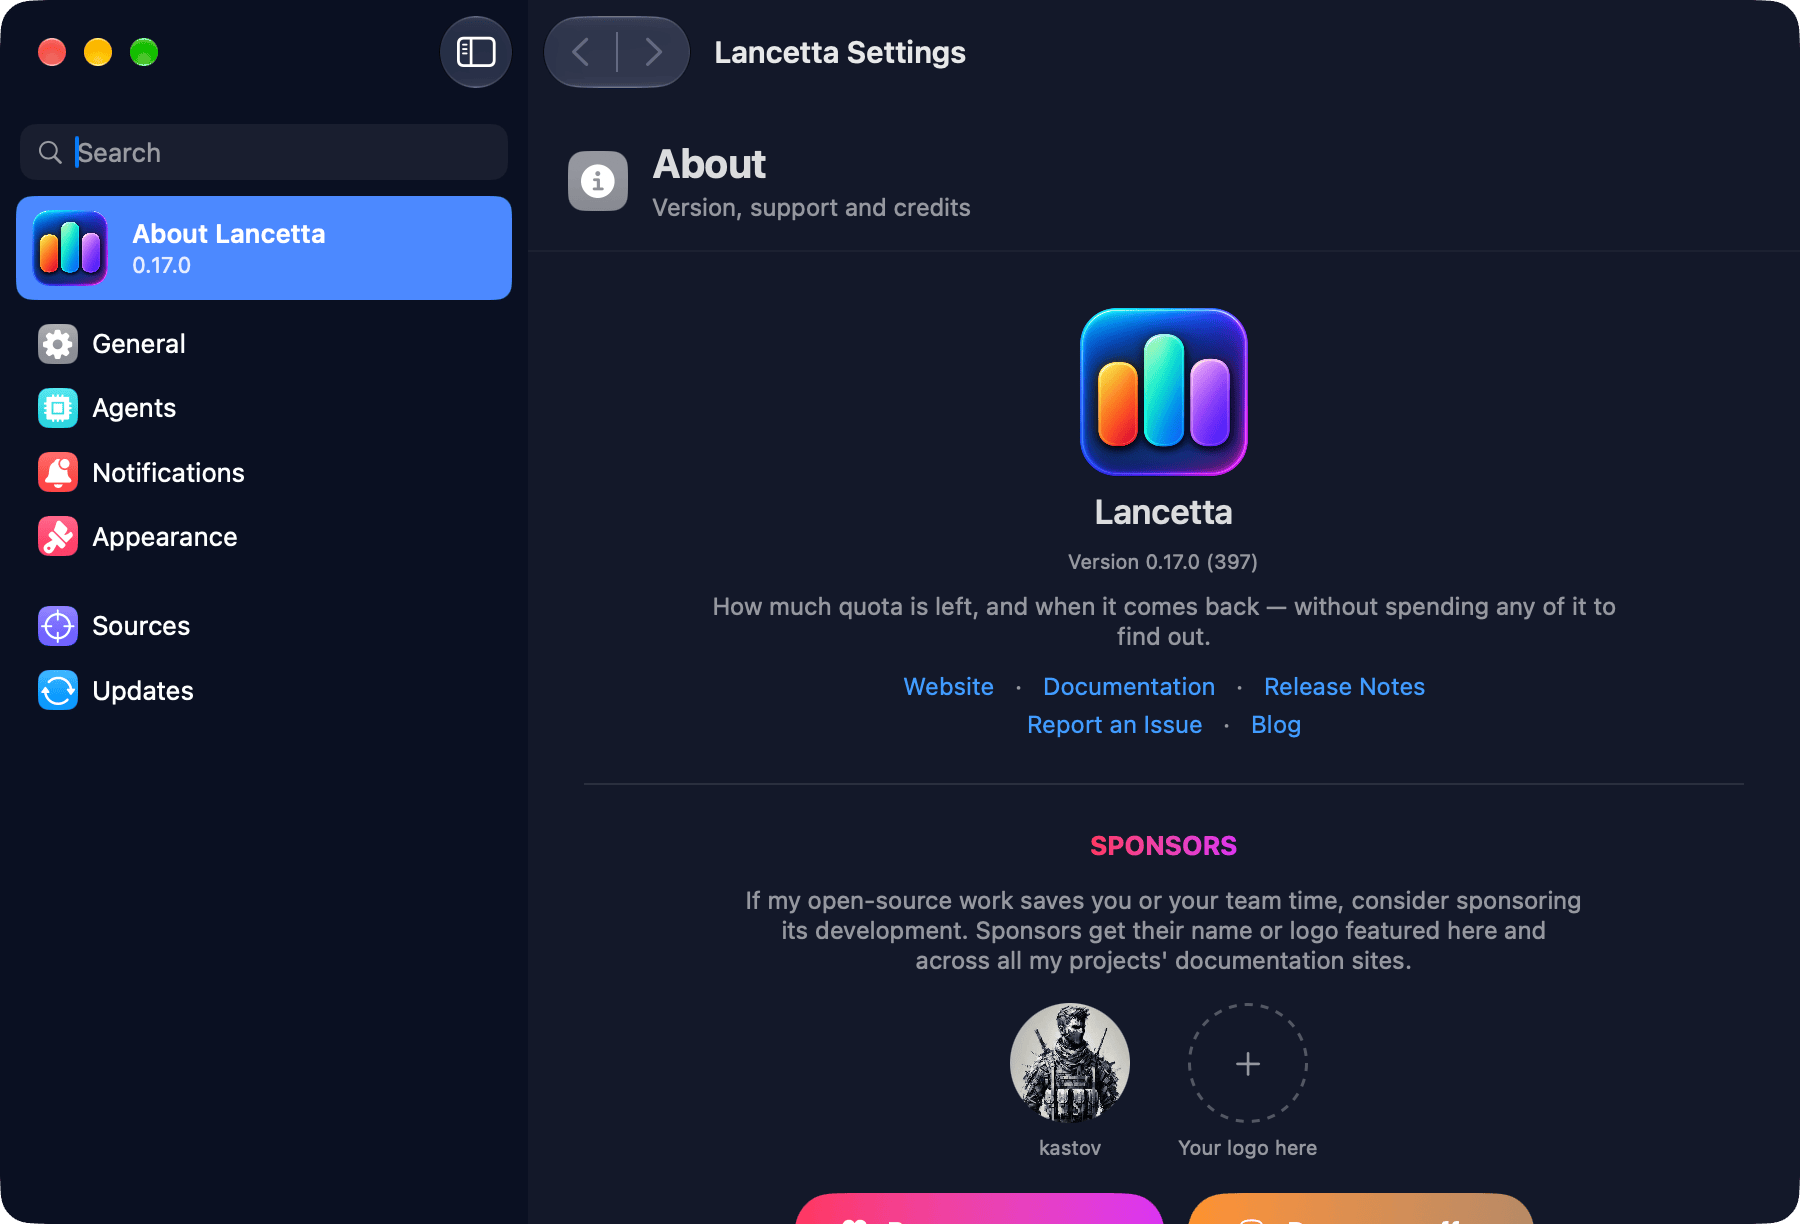
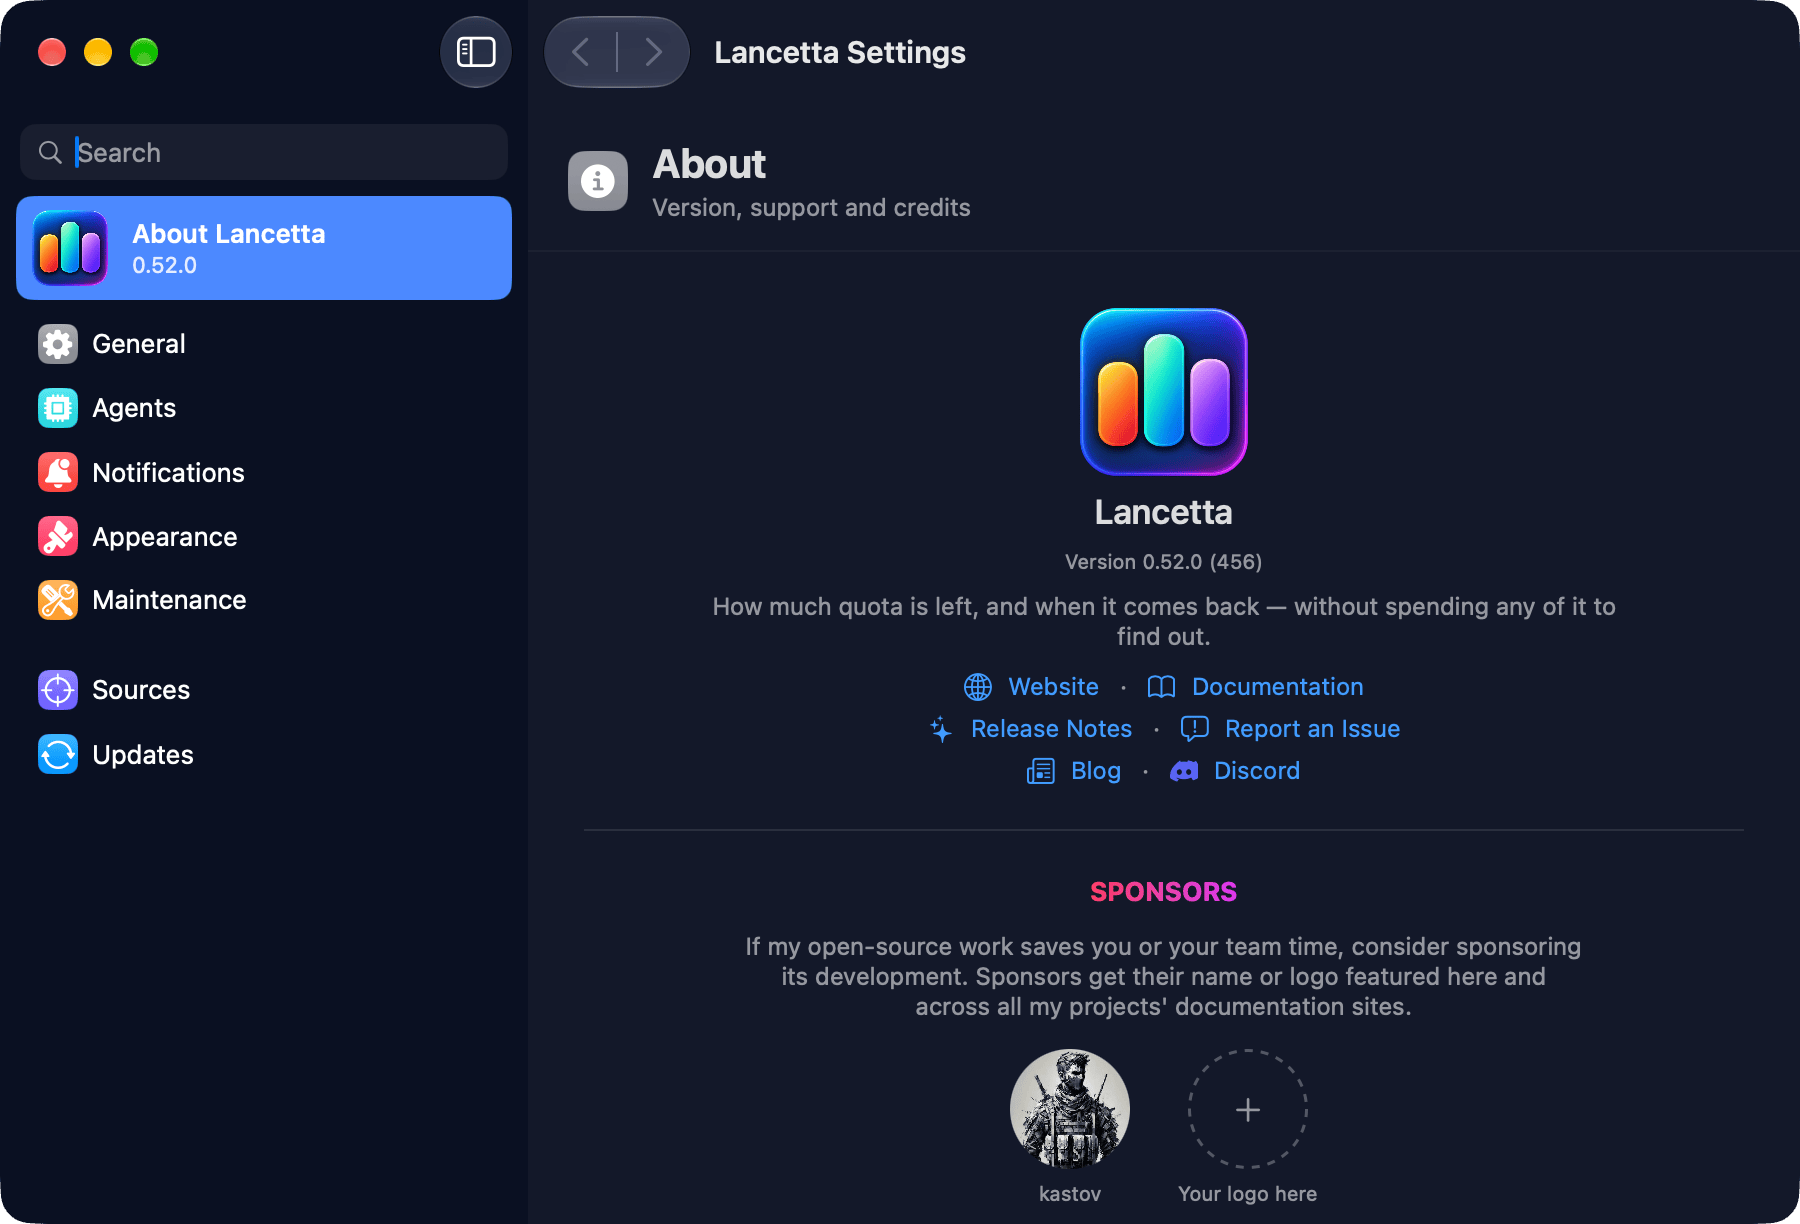
feat(release): publish Lancetta v0.52.0

diff --git a/public/release-notes/0.52.0.html b/public/release-notes/0.52.0.html
@@ -1,0 +1,53 @@
+<!DOCTYPE html>
+<html lang="en">
+<head>
+<meta charset="utf-8">
+<meta name="viewport" content="width=device-width, initial-scale=1">
+<title>Lancetta 0.52.0 — Release Notes</title>
+<style>
+  :root { color-scheme: light dark; --bg:#fff; --fg:#1a1a1a; --accent:#5a3cc8;
+           --muted:#6b6b73; --code-bg:#f4f4f5; --border:rgba(0,0,0,.12); }
+  @media (prefers-color-scheme: dark) {
+    :root { --bg:#1c1c1e; --fg:#ececec; --muted:#9c9ca5; --code-bg:#2c2c2e;
+             --border:rgba(255,255,255,.14); }
+  }
+  * { box-sizing: border-box; }
+  body { font: 14px/1.55 -apple-system, BlinkMacSystemFont, "SF Pro Text", sans-serif;
+          color: var(--fg); background: var(--bg); margin: 0 auto;
+          padding: 20px 24px 40px; max-width: 720px; }
+  header.page-header { border-bottom: 1px solid var(--border); padding-bottom: 14px;
+                        margin-bottom: 22px; }
+  header.page-header h1 { font-size: 1.7em; margin: 0 0 4px; letter-spacing: -.02em; }
+  header.page-header .subtitle { color: var(--muted); margin: 0; font-size: .92em; }
+  h1,h2,h3,h4 { letter-spacing: -.01em; margin: 1.5em 0 .5em; }
+  h1 { font-size: 1.4em; } h2 { font-size: 1.2em; } h3 { font-size: 1em; }
+  a { color: var(--accent); }
+  hr { border: 0; border-top: 1px solid var(--border); margin: 22px 0; }
+  ul, ol { padding-left: 1.4em; } li { margin: 4px 0; }
+  code { font: .9em ui-monospace, "SF Mono", Menlo, monospace; background: var(--code-bg);
+          padding: 1px 5px; border-radius: 3px; }
+  pre { background: var(--code-bg); padding: 12px 14px; border-radius: 6px;
+         overflow-x: auto; font-size: .88em; }
+  pre code { background: transparent; padding: 0; font-size: 1em; }
+  table { border-collapse: collapse; width: 100%; margin: 12px 0; font-size: .95em; }
+  th, td { border: 1px solid var(--border); padding: 6px 10px; text-align: left; }
+  th { background: var(--code-bg); }
+  img { max-width: 100%; }
+</style>
+</head>
+<body>
+<header class="page-header">
+  <h1>Lancetta 0.52.0</h1>
+  <p class="subtitle">Release notes</p>
+</header>
+<p>About Lancetta is wider than it is tall now, like Netfox's and FinderGit's.</p>
+<h2>About, in two columns</h2>
+<p><strong>The About window fits a laptop screen at a glance.</strong></p>
+<ul>
+<li>The app and its links on the left; the sponsors and the developer's other apps on the right; where Lancetta's numbers come from and the credits beneath. The window keeps that size.</li>
+<li>Every link has its icon, and there is a new one: <strong>Discord</strong>, where the community around these apps talks.</li>
+<li><strong>Octoscope</strong>, your GitHub at a glance in your terminal, joins the other apps.</li>
+<li>Settings › About keeps the single column, with the same links and apps.</li>
+</ul>
+</body>
+</html>

diff --git a/config/index.ts b/config/index.ts
@@ -103,7 +103,7 @@ export default {
     // `released` gates the Download tab, the hero button and the JSON-LD download
     // claim. It went true with the first release, v0.2.0 on 2026-09-18 — v0.2 and
     // not v0.1 because the memory half planned for later landed in the same build.
-    version: '0.51.0',
+    version: '0.52.0',
     released: true,
     releaseDate: '2026-10-13',
     minMacOS: '15.0',
